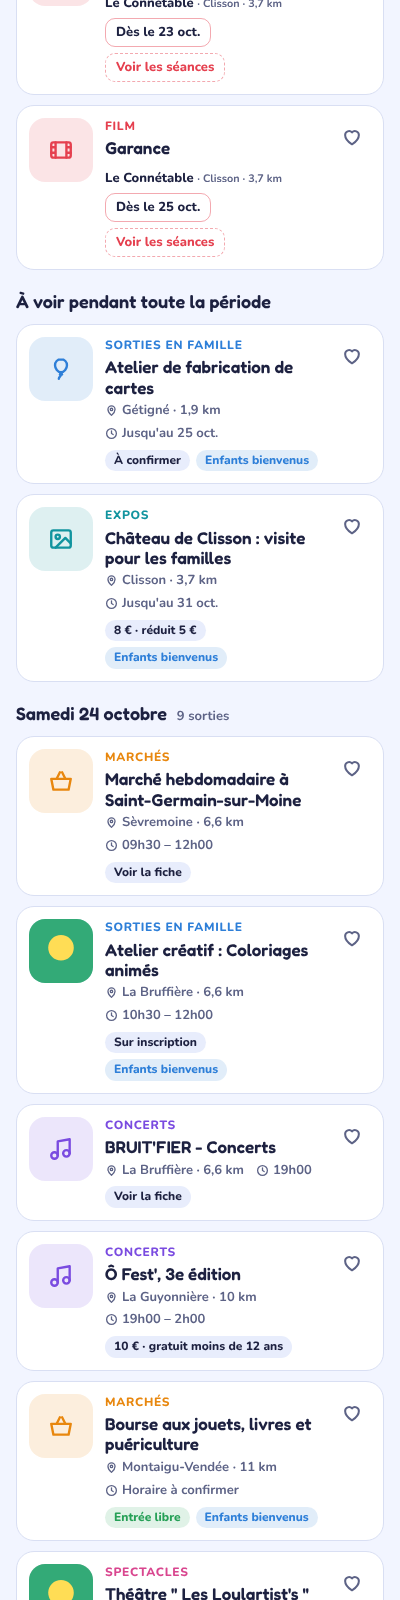
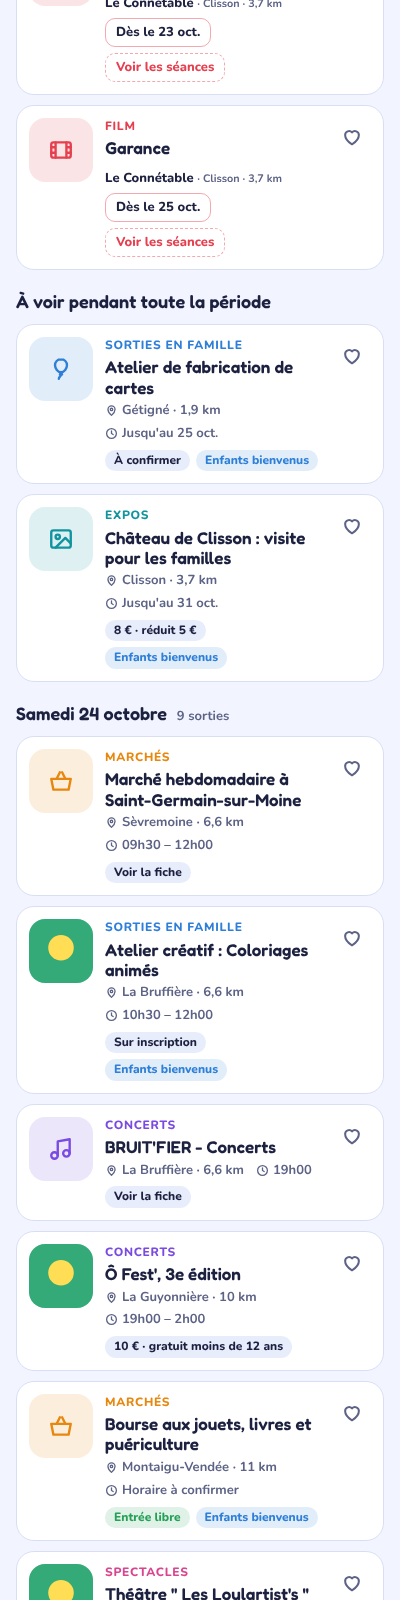
Retire les photos de lieux ; les cartes manuelles reprennent l'affiche de la source
Une photo de commune ou de lieu pouvait faire croire à autre chose que
l'événement. Une carte manuelle qui masque son doublon collecté garde
désormais la photo publiée pour l'événement (ex. Vide Bibliothèques).

Claude-Session: https://claude.ai/code/session_01EcVZPgTXZjzsUvP3KH8hjj

Changed region(s): [[0.06, 0.75, 0.24, 0.8438]]

diff --git a/public/data.js b/public/data.js
@@ -60,8 +60,8 @@ const EV = [
   // Gétigné, Gorges, Clisson
   { cat: 'famille', t: 'Atelier de fabrication de cartes', c: 'getigne', d: '2026-10-16', to: '2026-10-25', h: 'Voir l\'agenda de la commune', p: 'À confirmer', kids: true, place: 'Gétigné', desc: 'Atelier créatif de fabrication de cartes pendant la première semaine des vacances.', s: 'getigne' },
   { cat: 'famille', t: 'Soirée pyjama à la médiathèque', c: 'gorges', d: '2026-10-27', h: 'En soirée', p: 'Gratuit', kids: true, place: 'Médiathèque de Gorges', desc: 'Histoires du soir pour les enfants, en pyjama et doudou sous le bras.', s: 'gorges' },
-  { cat: 'expo', t: 'Château de Clisson : visite pour les familles', c: 'clisson', d: '2026-10-17', to: '2026-10-31', h: '16h00, sauf le mardi', p: '8 € · réduit 5 €', kids: true, place: 'Château de Clisson', wiki: 'Château de Clisson', desc: 'Visite guidée de la forteresse pensée pour les enfants pendant les vacances de la Toussaint. Réservation au 02 40 54 02 22.', s: 'chateau' },
-  { cat: 'expo', t: 'Château de Clisson : Au cœur de la forteresse', c: 'clisson', d: '2026-11-07', to: '2026-11-29', h: 'Sam. et dim. 14h30 et 16h00', p: '8 € · réduit 5 €', kids: true, place: 'Château de Clisson', wiki: 'Château de Clisson', desc: 'Visite guidée d\'une heure de la forteresse médiévale. Château ouvert du mercredi au dimanche, 14h – 17h30.', s: 'chateau' },
+  { cat: 'expo', t: 'Château de Clisson : visite pour les familles', c: 'clisson', d: '2026-10-17', to: '2026-10-31', h: '16h00, sauf le mardi', p: '8 € · réduit 5 €', kids: true, place: 'Château de Clisson', desc: 'Visite guidée de la forteresse pensée pour les enfants pendant les vacances de la Toussaint. Réservation au 02 40 54 02 22.', s: 'chateau' },
+  { cat: 'expo', t: 'Château de Clisson : Au cœur de la forteresse', c: 'clisson', d: '2026-11-07', to: '2026-11-29', h: 'Sam. et dim. 14h30 et 16h00', p: '8 € · réduit 5 €', kids: true, place: 'Château de Clisson', desc: 'Visite guidée d\'une heure de la forteresse médiévale. Château ouvert du mercredi au dimanche, 14h – 17h30.', s: 'chateau' },
   // Montaigu-Vendée et alentours
   { cat: 'famille', t: 'Après-midi jeux de société', c: 'montaigu', d: '2026-10-21', h: 'L\'après-midi', p: 'Gratuit', kids: true, place: 'Montaigu-Vendée', desc: 'Jeux de société pour petits et grands.', s: 'tm' },
   { cat: 'famille', t: 'Atelier créatif : coloriages animés', c: 'montaigu', d: '2026-10-21', h: 'Horaire à confirmer', p: 'Gratuit', kids: true, place: 'Médiathèque, Terres de Montaigu', desc: 'Les coloriages des enfants prennent vie grâce à une application.', s: 'tm' },
@@ -72,7 +72,7 @@ const EV = [
   { cat: 'spectacle', t: 'La disparition de Josef Mengele', c: 'montaigu', d: '2026-11-06', h: 'Horaire à confirmer', p: 'Voir la billetterie', place: 'Théâtre de Thalie', desc: 'Théâtre, d\'après le roman d\'Olivier Guez.', s: 'thalie' },
   { cat: 'marche', t: 'Bourse aux jouets', c: 'montaigu', d: '2026-11-07', h: 'Horaire à confirmer', p: 'Entrée libre', kids: true, place: 'Montaigu-Vendée', desc: 'Jouets d\'occasion avant les fêtes de fin d\'année.', s: 'jdsM' },
   { cat: 'spectacle', t: '4211 km', c: 'montaigu', d: '2026-11-10', h: 'Horaire à confirmer', p: 'Voir la billetterie', place: 'Théâtre de Thalie', desc: 'Théâtre.', s: 'thalie' },
-  { cat: 'expo', t: 'Exposition Raphaël Toussaint', c: 'chabotterie', d: '2026-10-19', to: '2026-11-15', h: 'Aux heures d\'ouverture', p: 'À confirmer', place: 'Logis de la Chabotterie', wiki: 'Logis de la Chabotterie', desc: 'Peintures du Vendéen Raphaël Toussaint, connu pour ses scènes de la vie rurale.', s: 'jdsM' },
+  { cat: 'expo', t: 'Exposition Raphaël Toussaint', c: 'chabotterie', d: '2026-10-19', to: '2026-11-15', h: 'Aux heures d\'ouverture', p: 'À confirmer', place: 'Logis de la Chabotterie', desc: 'Peintures du Vendéen Raphaël Toussaint, connu pour ses scènes de la vie rurale.', s: 'jdsM' },
   // Choletais et Haut-Bocage
   { cat: 'spectacle', t: 'Peregrinale', c: 'cholet', d: '2026-10-22', to: '2026-10-25', h: 'En soirée', p: 'Voir la billetterie', place: 'Balcon Café Théâtre', desc: 'Spectacle au café-théâtre de Cholet.', s: 'cholet' },
   { cat: 'expo', t: 'Salon Maison & Déco', c: 'cholet', d: '2026-10-23', to: '2026-10-25', h: 'En journée', p: 'À confirmer', place: 'Parc des expositions de la Meilleraie', desc: 'Salon de l\'habitat, de l\'aménagement et de la décoration.', s: 'cholet' },
@@ -90,17 +90,17 @@ const EV = [
   { cat: 'sport', t: 'Trail de Maulévrier', c: 'maulevrier', d: '2026-11-08', h: 'Le matin', p: 'Inscription', place: 'Maulévrier', desc: 'Course nature autour du parc oriental.', s: 'trail' },
   { cat: 'sport', t: 'Trail du druide landais', c: 'landes', d: '2026-11-15', h: 'Le matin', p: 'Inscription', place: 'Les Landes-Genusson', desc: 'Trail nature dans le bocage vendéen.', s: 'trail' },
   // Vers Nantes
-  { cat: 'famille', t: 'Halloween au zoo', c: 'boissiere', d: '2026-10-29', to: '2026-10-31', h: 'Aux heures d\'ouverture', p: 'Billet du zoo', kids: true, place: 'Zoo de la Boissière-du-Doré', wiki: 'Zoo de la Boissière-du-Doré', desc: 'Animations spéciales Halloween pour les familles.', s: 'kidi' },
+  { cat: 'famille', t: 'Halloween au zoo', c: 'boissiere', d: '2026-10-29', to: '2026-10-31', h: 'Aux heures d\'ouverture', p: 'Billet du zoo', kids: true, place: 'Zoo de la Boissière-du-Doré', desc: 'Animations spéciales Halloween pour les familles.', s: 'kidi' },
   { cat: 'sport', t: 'Handball : HBC Nantes contre Chambéry', c: 'nantes', d: '2026-10-24', h: '19h00', p: 'Voir la billetterie', kids: true, place: 'Nantes', desc: 'Match de Liqui Moly Starligue.', s: 'san' },
-  { cat: 'concert', t: 'Soirée Collectif Frénésie', c: 'nantes', d: '2026-10-24', h: '22h00 – 1h30', p: 'Gratuit', place: 'Le Lieu Unique', wiki: 'Le Lieu unique', desc: 'Soirée musicale gratuite.', s: 'san' },
+  { cat: 'concert', t: 'Soirée Collectif Frénésie', c: 'nantes', d: '2026-10-24', h: '22h00 – 1h30', p: 'Gratuit', place: 'Le Lieu Unique', desc: 'Soirée musicale gratuite.', s: 'san' },
   { cat: 'spectacle', t: 'La chèvre de Monsieur Seguin', c: 'nantes', d: '2026-10-25', h: '15h00', p: 'Voir la billetterie', kids: true, place: 'Théâtre de Jeanne', desc: 'Le conte d\'Alphonse Daudet sur scène, dès 4 ans.', s: 'san' },
   { cat: 'famille', t: 'Tap Tap Boom Boom', c: 'nantes', d: '2026-10-25', h: '15h00', p: '5 €', kids: true, place: 'Aérofab', desc: 'Après-midi festive et musicale pensée pour les enfants.', s: 'san' },
-  { cat: 'spectacle', t: 'L\'Été indien aux Nefs', c: 'nantes', d: '2026-10-19', to: '2026-10-31', h: 'Voir le programme', p: 'Gratuit', kids: true, place: 'Les Nefs, île de Nantes', wiki: 'Les Nefs (Nantes)', desc: 'Spectacle gratuit en plein air sous les Nefs.', s: 'san' },
-  { cat: 'expo', t: 'Les Machines de l\'île', c: 'nantes', d: '2026-10-17', to: '2026-11-02', h: '10h00 – 19h00', p: '12 € · 8 € de 4 à 12 ans', kids: true, place: 'Parc des Chantiers', wiki: "Les Machines de l'île", desc: 'Galerie des Machines et Carrousel des Mondes marins, ouverts tous les jours pendant les vacances.', s: 'imn' },
-  { cat: 'famille', t: 'Tout feu tout flamme (4-6 ans)', c: 'nantes', d: '2026-10-10', to: '2026-11-18', h: 'Voir les horaires', p: 'Voir la billetterie', kids: true, place: 'Château des ducs de Bretagne', wiki: 'Château des ducs de Bretagne', desc: 'Animation pour les 4-6 ans au château.', s: 'cdb' },
-  { cat: 'famille', t: 'Visite nocturne spéciale Halloween (11-13 ans)', c: 'nantes', d: '2026-10-27', to: '2026-10-31', h: '18h15', p: 'Voir la billetterie', kids: true, place: 'Château des ducs de Bretagne', wiki: 'Château des ducs de Bretagne', desc: 'Visite du château à la tombée de la nuit, sur le thème d\'Halloween.', s: 'cdb' },
-  { cat: 'sport', t: 'Football : FC Nantes contre Clermont', c: 'nantes', d: '2026-10-30', h: '20h00 (à confirmer)', p: 'Voir la billetterie', kids: true, place: 'Stade de la Beaujoire', wiki: 'Stade de la Beaujoire', desc: 'Match de Ligue 2.', s: 'fcn' },
-  { cat: 'famille', t: 'Parade d\'Halloween sous les Nefs', c: 'nantes', d: '2026-10-31', h: 'Portes 19h00, défilé 20h00', p: 'Gratuit', kids: true, place: 'Les Nefs, île de Nantes', wiki: 'Les Nefs (Nantes)', desc: 'Grande parade gratuite. Déguisement fortement conseillé.', s: 'imn' }
+  { cat: 'spectacle', t: 'L\'Été indien aux Nefs', c: 'nantes', d: '2026-10-19', to: '2026-10-31', h: 'Voir le programme', p: 'Gratuit', kids: true, place: 'Les Nefs, île de Nantes', desc: 'Spectacle gratuit en plein air sous les Nefs.', s: 'san' },
+  { cat: 'expo', t: 'Les Machines de l\'île', c: 'nantes', d: '2026-10-17', to: '2026-11-02', h: '10h00 – 19h00', p: '12 € · 8 € de 4 à 12 ans', kids: true, place: 'Parc des Chantiers', desc: 'Galerie des Machines et Carrousel des Mondes marins, ouverts tous les jours pendant les vacances.', s: 'imn' },
+  { cat: 'famille', t: 'Tout feu tout flamme (4-6 ans)', c: 'nantes', d: '2026-10-10', to: '2026-11-18', h: 'Voir les horaires', p: 'Voir la billetterie', kids: true, place: 'Château des ducs de Bretagne', desc: 'Animation pour les 4-6 ans au château.', s: 'cdb' },
+  { cat: 'famille', t: 'Visite nocturne spéciale Halloween (11-13 ans)', c: 'nantes', d: '2026-10-27', to: '2026-10-31', h: '18h15', p: 'Voir la billetterie', kids: true, place: 'Château des ducs de Bretagne', desc: 'Visite du château à la tombée de la nuit, sur le thème d\'Halloween.', s: 'cdb' },
+  { cat: 'sport', t: 'Football : FC Nantes contre Clermont', c: 'nantes', d: '2026-10-30', h: '20h00 (à confirmer)', p: 'Voir la billetterie', kids: true, place: 'Stade de la Beaujoire', desc: 'Match de Ligue 2.', s: 'fcn' },
+  { cat: 'famille', t: 'Parade d\'Halloween sous les Nefs', c: 'nantes', d: '2026-10-31', h: 'Portes 19h00, défilé 20h00', p: 'Gratuit', kids: true, place: 'Les Nefs, île de Nantes', desc: 'Grande parade gratuite. Déguisement fortement conseillé.', s: 'imn' }
 ];
 
 // Weekly markets, expanded into dated occurrences below. wd: 0 = Sunday … 6 = Saturday.

diff --git a/public/index.html b/public/index.html
@@ -133,7 +133,6 @@ button.card:hover { transform: translateY(-2px); box-shadow: 0 6px 18px color-mi
 .badge-ic img { position: absolute; inset: 0; width: 100%; height: 100%; object-fit: cover; }
 .sheet-img { display: block; width: 100%; max-height: 260px; object-fit: cover; background: var(--surface-2); }
 .credit { font-size: 11px; color: var(--muted); }
-.credit a { color: inherit; }
 .badge-ic svg { width: 26px; height: 26px; }
 button.badge-ic { border: 0; padding: 0; cursor: pointer; }
 .card .body { min-width: 0; display: flex; flex-direction: column; gap: 3px; }
@@ -317,7 +316,12 @@ dialog::backdrop { background: rgb(20 22 50 / .45); }
       return n > 0 && n / Math.min(A.size, B.size) >= 0.5;
     };
     const manual = EV.slice();
-    for (const e of AUTO.EV) if (!manual.some(m => same(m, e))) EV.push({ ...e, s: 'a' + e.s });
+    for (const e of AUTO.EV) {
+      const m = manual.find(m => same(m, e));
+      if (!m) { EV.push({ ...e, s: 'a' + e.s }); continue; }
+      // The hand-made card wins, but keeps the photo the source published for this event.
+      if (!m.img && e.img) Object.assign(m, { img: e.img, imgL: e.imgL, credit: e.credit });
+    }
   }
 
   // Dates
@@ -412,16 +416,10 @@ dialog::backdrop { background: rgb(20 22 50 / .45); }
   // Rendering pieces
   const isFree = p => /^(Gratuit|Entrée libre)/.test(p);
   const imgUrl = u => u.replace(/^~/, 'https://img.openagenda.com/main/');
-  const wikiUrl = u => u.replace(/^\^/, 'https://upload.wikimedia.org/wikipedia/commons/thumb/');
-  const PHOTOS = (typeof AUTO !== 'undefined' && AUTO.PHOTOS) || {};
-  // The event's own photo first; otherwise a free photo of the named place, then of the commune.
+  // Only the event's own photo, from its source. A place photo could suggest the wrong event.
   function photoOf(e) {
-    if (e.img) return { thumb: imgUrl(e.img), big: imgUrl(e.imgL || e.img), credit: 'Photo : ' + esc(e.credit || 'fournie par la source de l\'événement') };
-    const place = e.wiki && PHOTOS['w:' + e.wiki];
-    const p = place || PHOTOS[e.c];
-    if (!p) return null;
-    const file = `https://commons.wikimedia.org/wiki/File:${encodeURIComponent(p[1])}`;
-    return { thumb: wikiUrl(p[0]), big: wikiUrl(p[0]), credit: `Photo du lieu (${esc(place ? p[2] : C[e.c].n)}) : <a href="${file}" target="_blank" rel="noopener">Wikimedia Commons</a>` };
+    if (!e.img) return null;
+    return { thumb: imgUrl(e.img), big: imgUrl(e.imgL || e.img), credit: 'Photo : ' + esc(e.credit || 'fournie par la source de l\'événement') };
   }
   function eventCard(e) {
     const commune = C[e.c];

diff --git a/CLAUDE.md b/CLAUDE.md
@@ -13,7 +13,8 @@ Quand l'utilisateur demande cette mise à jour :
 1. Ne modifie que `public/data.js`. Le design et la logique (`public/index.html`) ne changent pas.
    La collecte automatique couvre déjà bien Terres de Montaigu (dont Cugand), Sèvremoine, Cholet et Nantes. Concentre la recherche manuelle sur ce qu'elle rate : le cinéma (`FILMS`), Clisson (château, Connétable), Gétigné, Gorges, Boussay et les grandes salles. Regarde `public/auto.js` pour ne pas ajouter ce qui y est déjà.
 2. Cherche les événements des 31 prochains jours dans un rayon de 50 km autour de Cugand (85610) : Cugand-la-Bernardière, Clisson, Gétigné, Gorges, Boussay, Terres de Montaigu, Cholet, Les Herbiers, Mortagne-sur-Sèvre, Saint-Laurent-sur-Sèvre, vignoble nantais, Nantes. Catégories : `cinema`, `concert`, `expo`, `marche`, `sport`, `spectacle`, `famille`. Utilise WebSearch (WebFetch est souvent bloqué par le réseau de la session).
-3. Dans `data.js` : retire les événements terminés, ajoute les nouveaux, corrige ceux qui ont changé, et mets `UPDATED` à la date du jour. Garde le format des objets (`cat, t, c, d, to, h, p, kids, place, desc, s`). Toute nouvelle commune va dans `C` avec ses vraies coordonnées GPS, toute nouvelle source dans `SRC` avec son URL. Quand l'événement a lieu dans un lieu connu qui a un article Wikipédia (château, musée, salle, stade…), ajoute `wiki: 'Titre exact de l'article'` : la collecte de nuit récupère une photo libre de ce lieu.
+3. Dans `data.js` : retire les événements terminés, ajoute les nouveaux, corrige ceux qui ont changé, et mets `UPDATED` à la date du jour. Garde le format des objets (`cat, t, c, d, to, h, p, kids, place, desc, s`). Toute nouvelle commune va dans `C` avec ses vraies coordonnées GPS, toute nouvelle source dans `SRC` avec son URL.
 4. Films : `FILMS` liste les films annoncés au Connétable (Clisson) et au cinéma de Montaigu-Vendée, avec seulement la date de début par cinéma. Pas d'horaires de séances.
-5. N'invente jamais un événement, un horaire, un prix ou un film. Si une information manque : « Horaire à confirmer » ou « À confirmer ».
-6. Vérifie la syntaxe (`node --check public/data.js`), commit, push sur `main`, puis résume en français : événements ajoutés, retirés, total, et sources inaccessibles.
+5. Pas de photo de lieu ni d'image générée : seule la photo publiée par la source pour l'événement est affichée (elle vient de `auto.js`, y compris pour une carte manuelle qui masque son doublon collecté).
+6. N'invente jamais un événement, un horaire, un prix ou un film. Si une information manque : « Horaire à confirmer » ou « À confirmer ».
+7. Vérifie la syntaxe (`node --check public/data.js`), commit, push sur `main`, puis résume en français : événements ajoutés, retirés, total, et sources inaccessibles.
